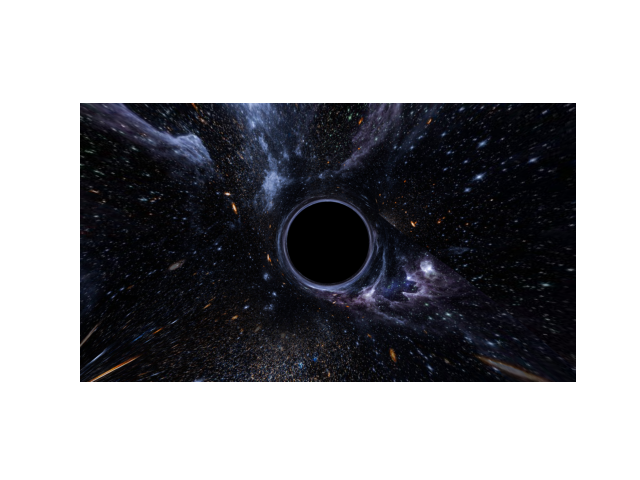
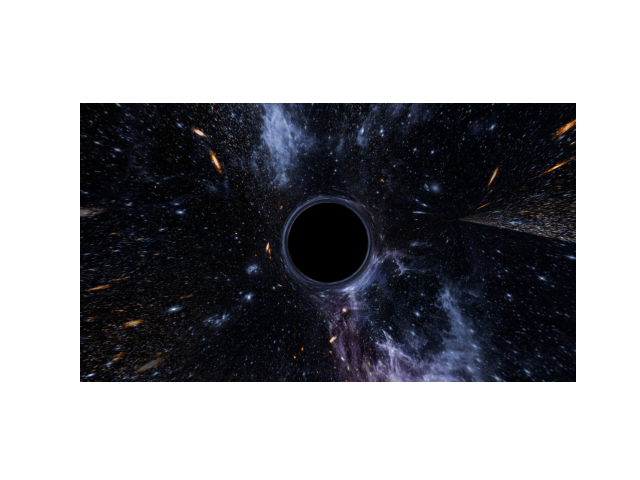
equation error refixed

diff --git a/solver.py b/solver.py
@@ -5,9 +5,9 @@ import taichi as ti
 def rk4_f(pos, dir_, L_square):
     # function for RK4
     r = pos.norm()
-    r_cube = r ** 3
+    r_fourth = r ** 4
     one_point_five = ti.cast(1.5, ti.f32)
-    return (L_square * pos / r_cube) * (1 - one_point_five / r)
+    return (L_square * pos / r_fourth) * (1 - one_point_five / r)
 
 @ti.data_oriented
 class Solver:
@@ -28,10 +28,10 @@ class Solver:
             for iter in range(max_iter):
                 new_pos = pos + delta_lambda * dir_
                 r = new_pos.norm()
-                r_cube = r ** 3
+                r_fourth = r ** 4
                 # Ensure constants are float32
                 one_point_five = ti.cast(1.5, ti.f32)
-                constant = (L_square / r_cube) * (1 - one_point_five / r)
+                constant = (L_square / r_fourth) * (1 - one_point_five / r)
                 new_dir = dir_ + delta_lambda * constant * pos
 
                 pos = new_pos
@@ -102,9 +102,9 @@ class Solver:
 
             # Half-step velocity update
             r = pos.norm()
-            r_cube = r ** 3
+            r_fourth = r ** 4
             one_point_five = ti.cast(1.5, ti.f32)
-            constant = (L_square / r_cube) * (1 - one_point_five / r)
+            constant = (L_square / r_fourth) * (1 - one_point_five / r)
             dir_ = dir_ + 0.5 * delta_lambda * constant * pos
 
             for iter in range(max_iter):
@@ -113,8 +113,8 @@ class Solver:
 
                 # Recalculate constants with new position
                 r = pos.norm()
-                r_cube = r ** 3
-                constant = (L_square / r_cube) * (1 - one_point_five / r)
+                r_fourth = r ** 4
+                constant = (L_square / r_fourth) * (1 - one_point_five / r)
 
                 # Full-step velocity update
                 dir_ = dir_ + delta_lambda * constant * pos
